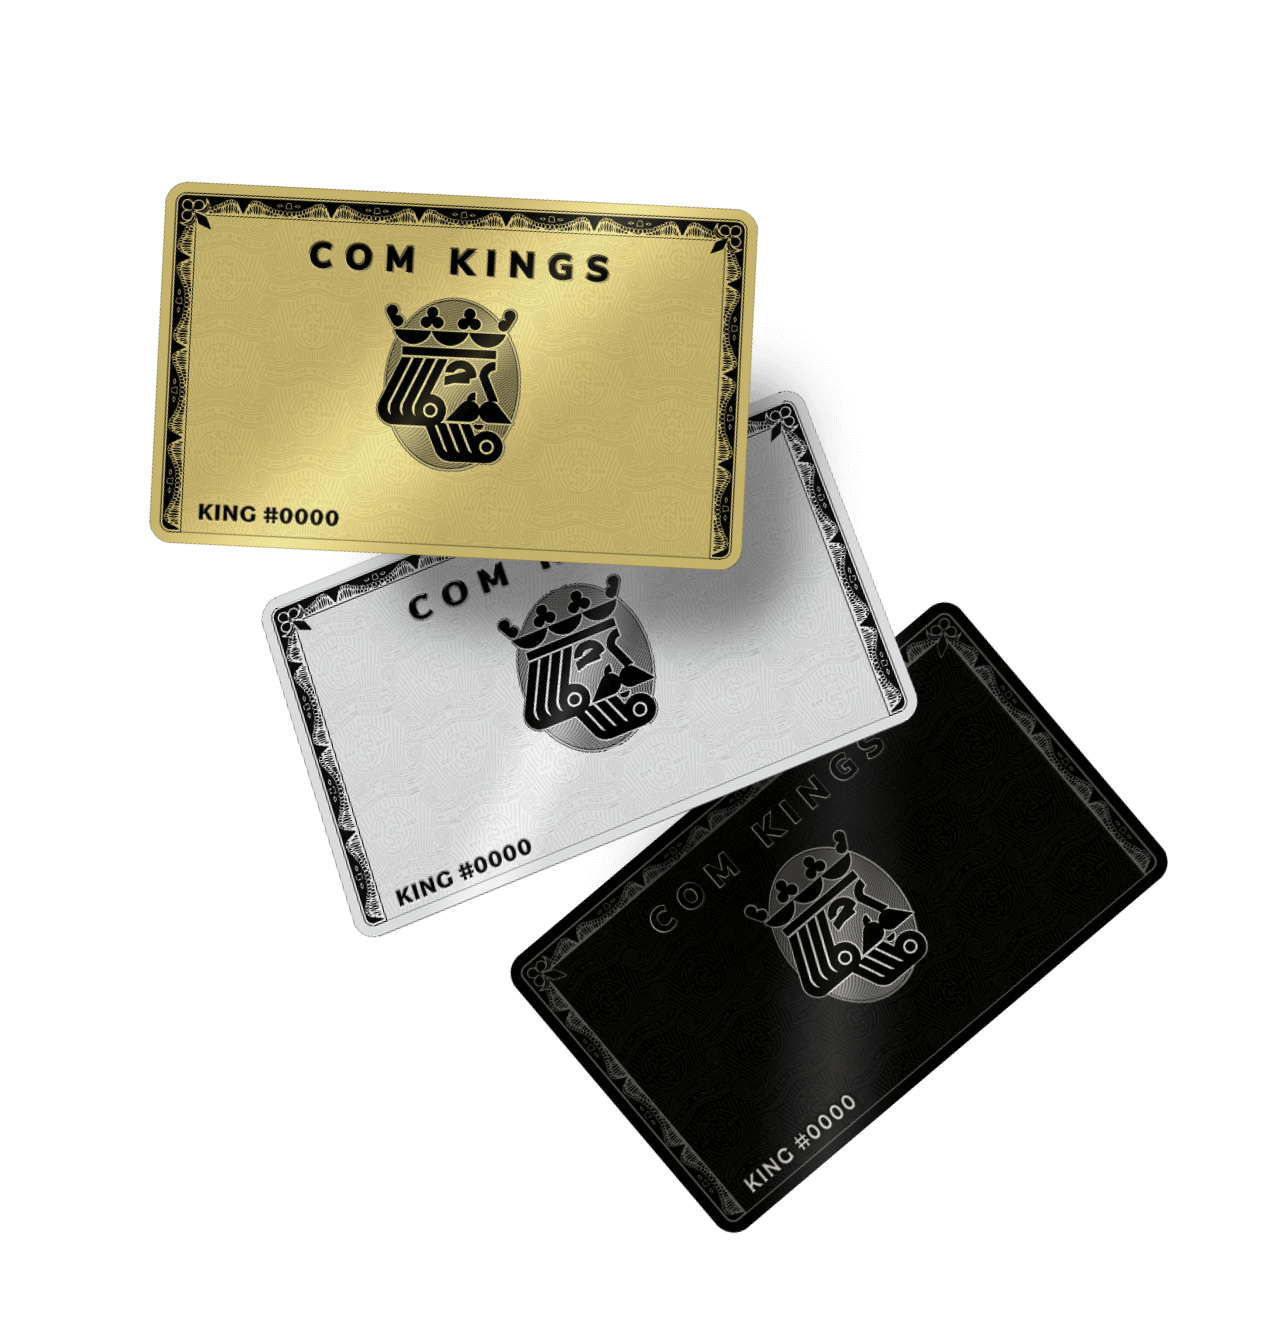
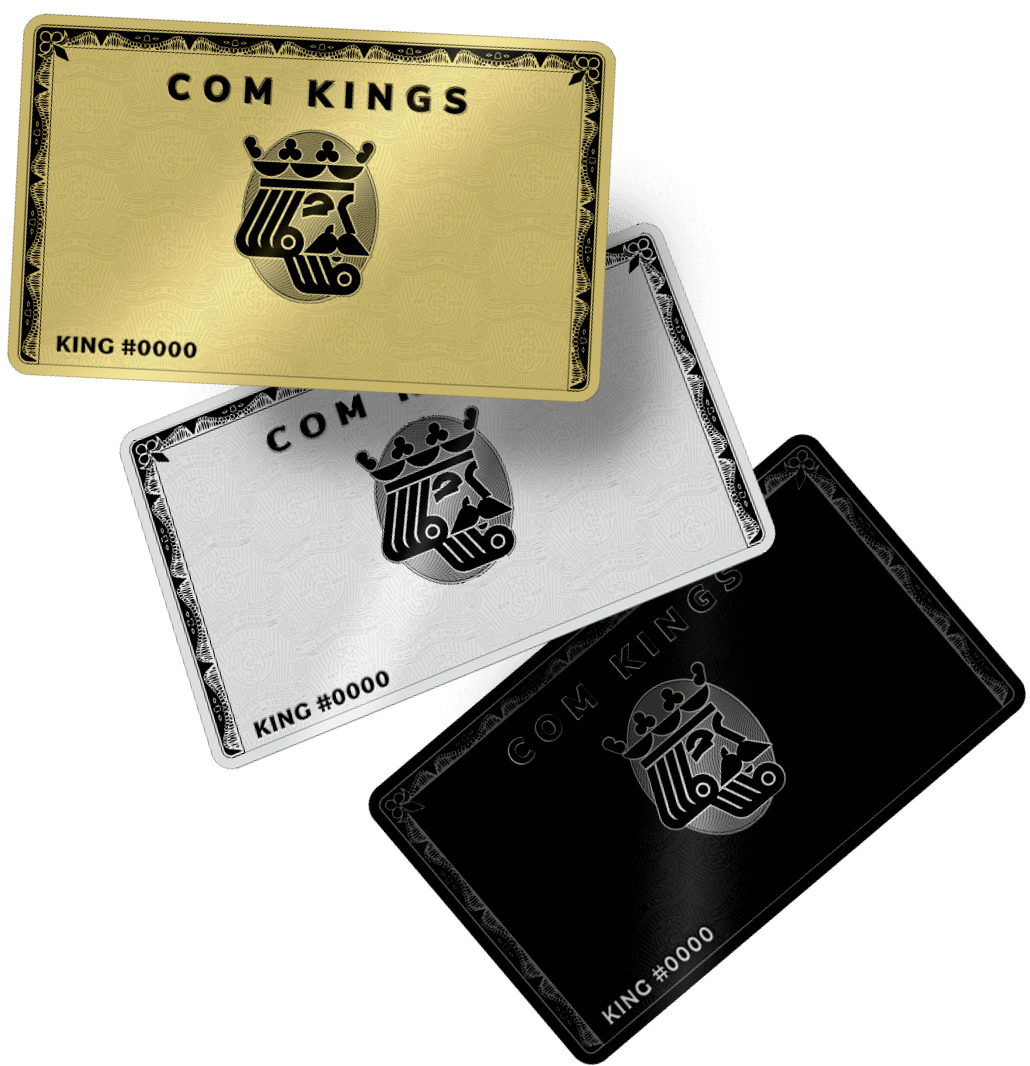
cards ompleted

diff --git a/index.html b/index.html
@@ -76,38 +76,110 @@
 
     </div>
 
-    <section class="cards-section" id="cards">
-        <div class="container">
-            <div class="section-title-box">
-                <h2>Cards & Utilities</h2>
-            </div>
-            <div class="cards-content">
 
-                <div class="mycard">
-                    <div class="card-img-col">
-                        <img src="./assets/images/card-gold.png" alt="Card Gold">
-                    </div>
-                    <div class="card-text-col">
-                        <div class="icon-box">
-                            <img src="./assets/images/gold-icon.png" alt="Gold icon">
-                            <span>Gold</span>
+    <main>
+
+
+        <section class="cards-section" id="cards">
+            <div class="container">
+                <div class="section-title-box">
+                    <h2>Cards & Utilities</h2>
+                </div>
+                <div class="cards-content">
+
+                    <div class="mycard">
+                        <div class="card-img-col">
+                            <img src="./assets/images/card-gold.png" alt="Card Gold">
                         </div>
-                        <h4>Total supply: 2967 </h4>
-                        <ul>
-                            <li> - Access To Holders-Only Comkings Club Discord</li>
-                            <li> - Free Access To Jacob’s Course</li>
-                            <li> - E-Commerce Cheat Sheet</li>
-                            <li> - Recurring AMAs With All Holders</li>
+                        <div class="card-text-col">
+                            <div class="icon-box">
+                                <img src="./assets/images/gold-icon.png" alt="Gold icon">
+                                <span>Gold</span>
+                            </div>
+                            <h4>Total supply: 2967 </h4>
+                            <ul>
+                                <li> - Access To Holders-Only Comkings Club Discord</li>
+                                <li> - Free Access To Jacob’s Course</li>
+                                <li> - E-Commerce Cheat Sheet</li>
+                                <li> - Recurring AMAs With All Holders</li>
 
-                        </ul>
+                            </ul>
+                        </div>
+                    </div>
+
+                    <div class="mycard">
+                        <div class="card-text-col">
+                            <div class="icon-box">
+                                <img src="./assets/images/gold-icon.png" alt="Gold icon">
+                                <span>Platinum</span>
+                            </div>
+                            <h4>Total supply: 333 </h4>
+                            <ul>
+                                <li> - All Perks From Gold</li>
+                                <li> - Monthly List Of Winning Products</li>
+                                <li> - Recurring Video Calls With All Founders With Case Studies</li>
+                                <li> - Holder Store Improvement Guide</li>
+                                <li> - Personalized Store Analysis With List Of Specific Issues</li>
+                            </ul>
+                        </div>
+                        <div class="card-img-col">
+                            <img src="./assets/images/card-platinum.png" alt="Card Platinum">
+                        </div>
+                    </div>
+
+                    <div class="mycard">
+                        <div class="card-img-col">
+                            <img src="./assets/images/card-gold.png" alt="Card Gold">
+                        </div>
+                        <div class="card-text-col">
+                            <div class="icon-box">
+                                <img src="./assets/images/gold-icon.png" alt="Gold icon">
+                                <span>Gold</span>
+                            </div>
+                            <h4>Total supply: 2967 </h4>
+                            <ul>
+                                <li> - Access To Holders-Only Comkings Club Discord</li>
+                                <li> - Free Access To Jacob’s Course</li>
+                                <li> - E-Commerce Cheat Sheet</li>
+                                <li> - Recurring AMAs With All Holders</li>
+
+                            </ul>
+                        </div>
+                    </div>
+
+                </div>
+            </div>
+        </section>
+
+        <section class="section-combo-uh">
+            <section class="section-upgrades">
+                <div class="container">
+                    <div class="section-title-box">
+                        <h2>Holder Upgrades</h2>
+                    </div>
+                    <div class="upgrades-content">
+                        <div class="upgrade-box">
+                            <h5>2 gold cards can be merged and upgraded into a platinum card</h5>
+                            <img src="./assets/images/upgrade1.png" alt="upgrade 1">
+                        </div>
+                        <div class="upgrade-box">
+                            <h5>3 platinum cards can be merged and upgraded into a black card</h5>
+                            <img src="./assets/images/upgrade2.png" alt="upgrade 2">
+                        </div>
                     </div>
                 </div>
+            </section>
+            <section class="section-founders">
+                <div class="container">
+                    <div class="section-title-box">
+                        <h2>Surround Yourself With Winners</h2>
+                        <p>Meet the founders</p>
+                    </div>
+                </div>
+            </section>
+        </section>
 
-            </div>
-        </div>
-    </section>
-
-
+    </main>
 
     <!-- bootstrap popper bundle -->
     <script src="https://cdn.jsdelivr.net/npm/bootstrap@5.1.3/dist/js/bootstrap.bundle.min.js"

diff --git a/assets/stylesheets/main.scss b/assets/stylesheets/main.scss
@@ -48,9 +48,8 @@ p.huge {
     font-size: 2rem;
 }
 
-image {
+img {
     max-width: 100%;
-    width: 100%;
 }
 
 section {
@@ -91,6 +90,15 @@ section {
     h2 {
         font-size: 3.2rem;
     }
+
+    p {
+        margin-top: 2rem;
+        font-weight: 300;
+        font-size: 2.2rem;
+        letter-spacing: 4px;
+        text-transform: capitalize;
+
+    }
 }
 
 // header
@@ -107,6 +115,7 @@ section {
             .nav-link {
                 color: white;
                 text-decoration: none;
+                cursor: pointer;
             }
 
             @include respond(991px) {
@@ -186,9 +195,9 @@ section {
     }
 
     .hero-img {
-        width: 60%;
+        width: 50%;
         position: absolute;
-        top: 3%;
+        top: 13%;
         right: -10%;
     }
 }
@@ -206,7 +215,7 @@ section {
 
     .mycard {
         display: grid;
-        grid-template-columns: 1.3fr 1fr;
+        grid-template-columns: 1fr 1fr;
         gap: 3rem;
 
         .card {
@@ -219,6 +228,8 @@ section {
 
             &-text-col {
                 align-self: center;
+                justify-self: center;
+
                 display: flex;
                 flex-direction: column;
                 justify-content: flex-start;
@@ -254,5 +265,44 @@ section {
             }
         }
 
+    }
+}
+
+.section-combo-uh {
+    background-image: url(../images/founders-bg.jpg);
+    background-position: center;
+    background-repeat: no-repeat;
+
+    &>section {
+        padding: 5rem 0;
+    }
+}
+
+.section-upgrades {
+
+    .upgrades-content {
+        margin: 13rem 0;
+        display: grid;
+        grid-template-columns: 1fr 1fr;
+        gap: 3rem;
+
+        .upgrade-box {
+            align-self: center;
+            display: flex;
+            flex-direction: column;
+            align-items: center;
+            justify-content: space-between;
+
+            h5 {
+                max-width: 50rem;
+                font-size: 2.5rem;
+                font-weight: 300;
+                letter-spacing: 2px;
+            }
+
+            img {
+                width: 100%;
+            }
+        }
     }
 }

diff --git a/assets/stylesheets/main.css b/assets/stylesheets/main.css
@@ -42,9 +42,8 @@ p.huge {
   font-size: 2rem;
 }
 
-image {
+img {
   max-width: 100%;
-  width: 100%;
 }
 
 section {
@@ -88,6 +87,14 @@ section {
   font-size: 3.2rem;
 }
 
+.section-title-box p {
+  margin-top: 2rem;
+  font-weight: 300;
+  font-size: 2.2rem;
+  letter-spacing: 4px;
+  text-transform: capitalize;
+}
+
 .header .navbar {
   font-size: 1.8rem;
   font-family: inherit;
@@ -101,6 +108,7 @@ section {
 .header .navbar .nav-item .nav-link {
   color: white;
   text-decoration: none;
+  cursor: pointer;
 }
 
 @media only screen and (max-width: 991px) {
@@ -169,9 +177,9 @@ section {
 }
 
 .hero .hero-img {
-  width: 60%;
+  width: 50%;
   position: absolute;
-  top: 3%;
+  top: 13%;
   right: -10%;
 }
 
@@ -188,7 +196,7 @@ section {
 
 .cards-section .mycard {
   display: grid;
-  grid-template-columns: 1.3fr 1fr;
+  grid-template-columns: 1fr 1fr;
   gap: 3rem;
 }
 
@@ -199,6 +207,7 @@ section {
 
 .cards-section .mycard .card-text-col {
   align-self: center;
+  justify-self: center;
   display: flex;
   flex-direction: column;
   justify-content: flex-start;
@@ -233,8 +242,42 @@ section {
   font-size: 1.6rem;
 }
 
-/*# sourceMappingURL=main.css.map */
-/*# sourceMappingURL=main.css.map */
+.section-combo-uh {
+  background-image: url(../images/founders-bg.jpg);
+  background-position: center;
+  background-repeat: no-repeat;
+}
+
+.section-combo-uh > section {
+  padding: 5rem 0;
+}
+
+.section-upgrades .upgrades-content {
+  margin: 13rem 0;
+  display: grid;
+  grid-template-columns: 1fr 1fr;
+  gap: 3rem;
+}
+
+.section-upgrades .upgrades-content .upgrade-box {
+  align-self: center;
+  display: flex;
+  flex-direction: column;
+  align-items: center;
+  justify-content: space-between;
+}
+
+.section-upgrades .upgrades-content .upgrade-box h5 {
+  max-width: 50rem;
+  font-size: 2.5rem;
+  font-weight: 300;
+  letter-spacing: 2px;
+}
+
+.section-upgrades .upgrades-content .upgrade-box img {
+  width: 100%;
+}
+
 /*# sourceMappingURL=main.css.map */
 /*# sourceMappingURL=main.css.map */
 
